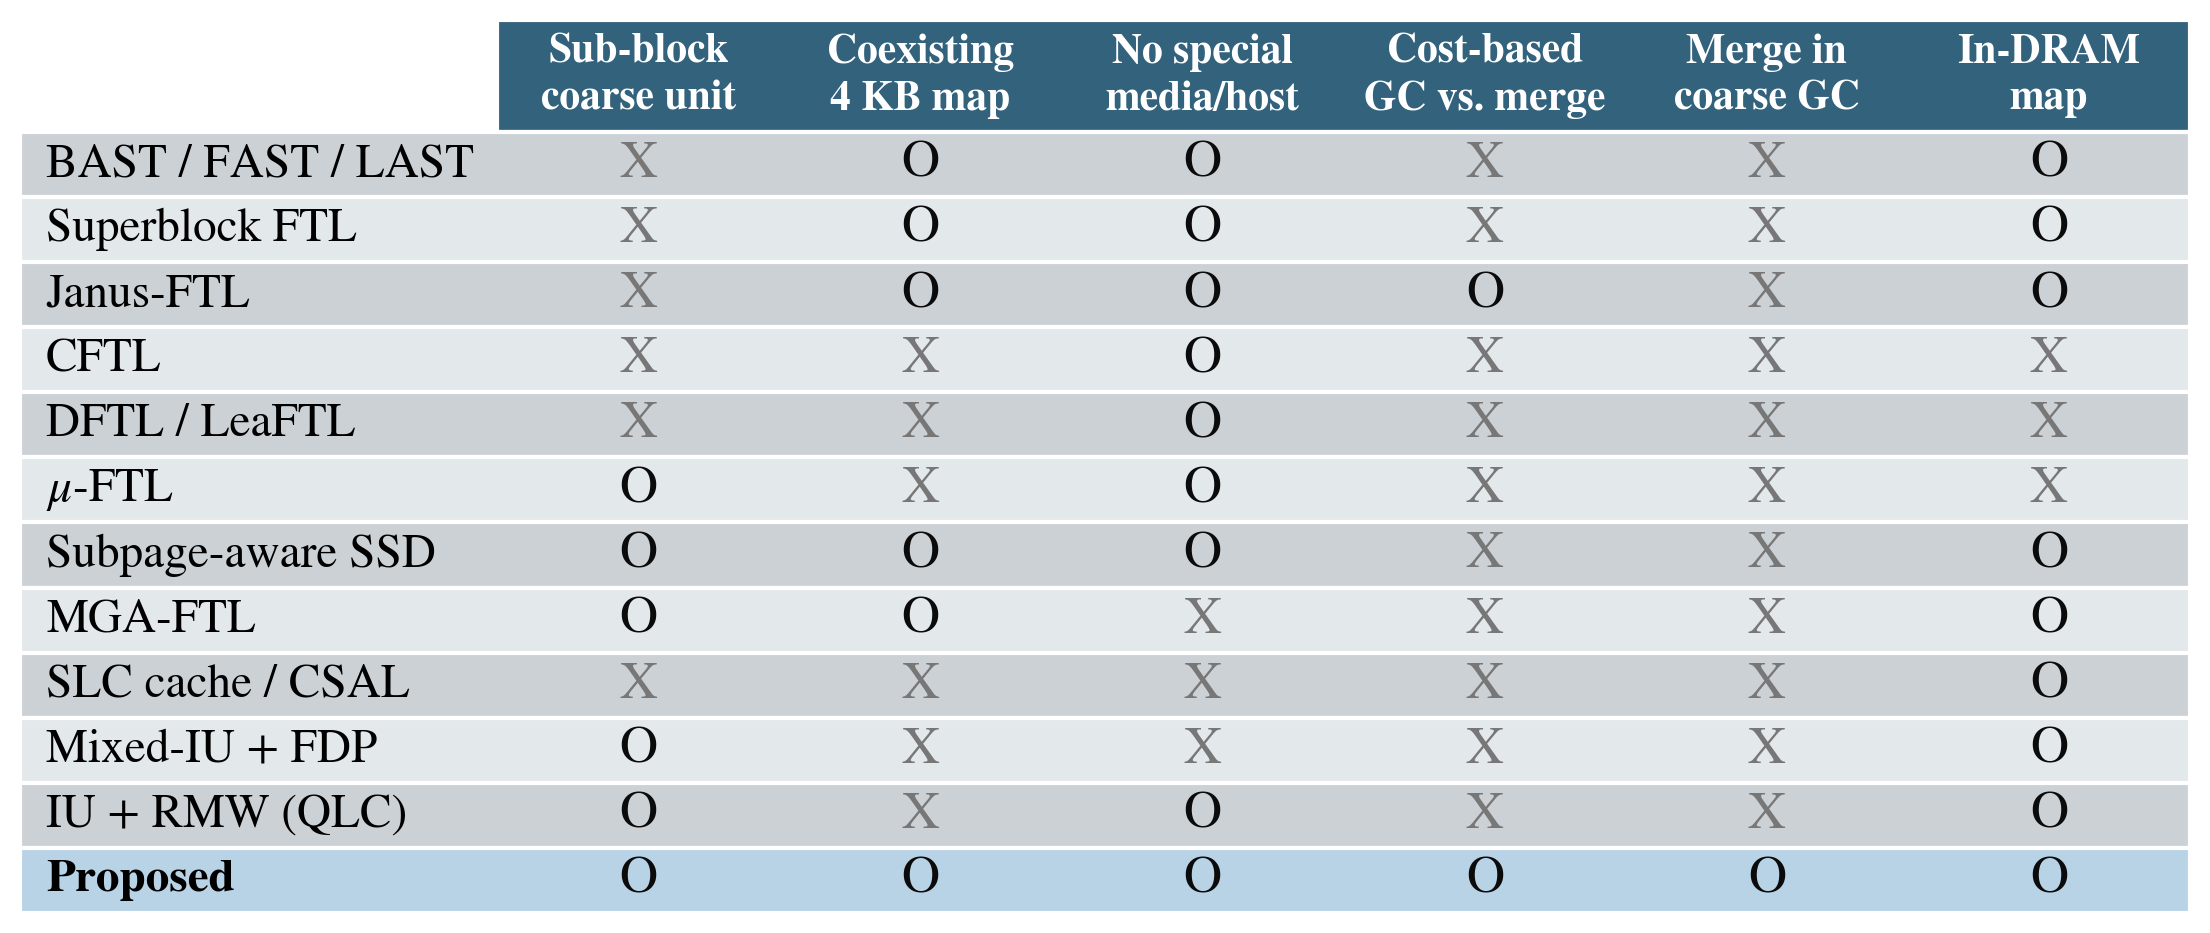
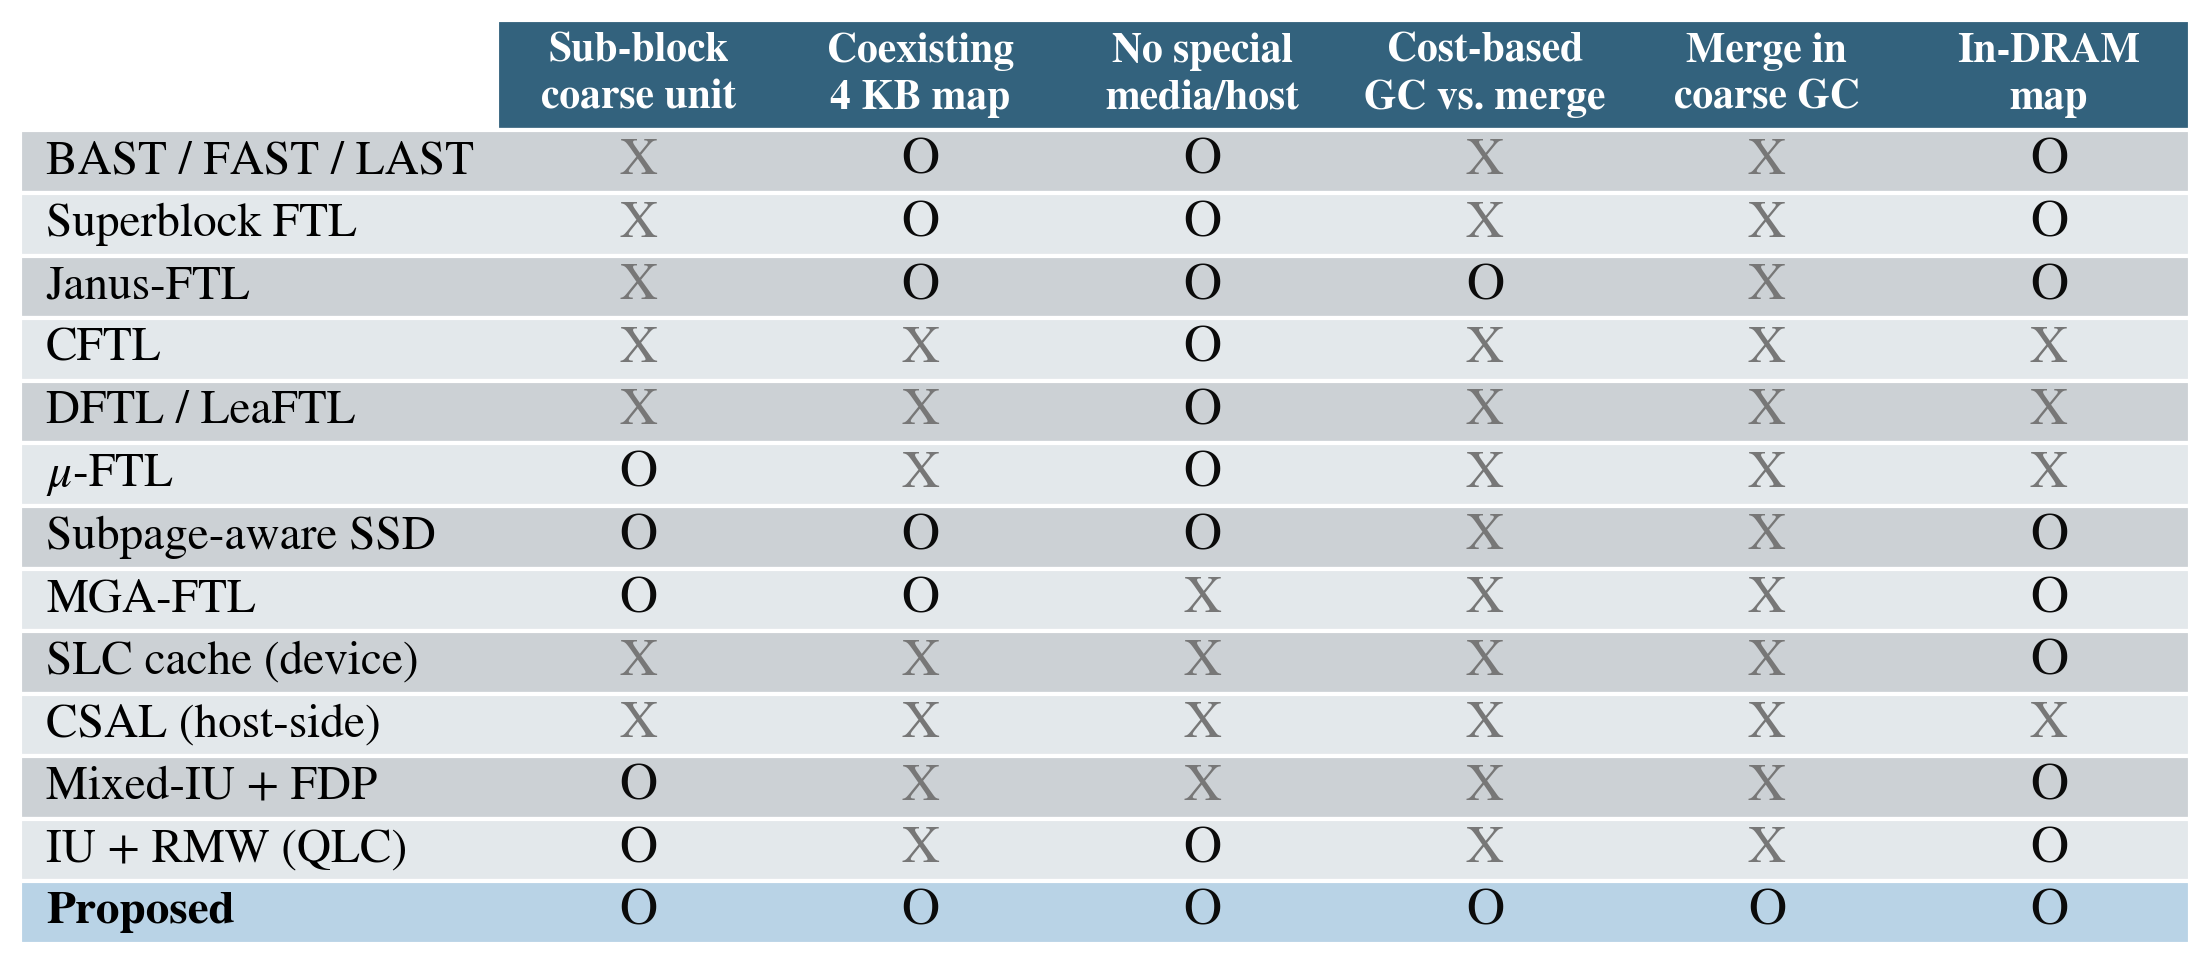
Split CSAL from device SLC caching in the related-work table; record only verified cells

Changed region(s): [[0.0, 0.0311, 0.9991, 0.9636]]

diff --git a/tools/plot.py b/tools/plot.py
@@ -440,7 +440,8 @@ RW = [
     (r"$\mu$-FTL",          dict(sub=1, dual=0, plain=1, cost=0, gcmrg=0, dram=0)),
     ("Subpage-aware SSD",   dict(sub=1, dual=1, plain=1, cost=0, gcmrg=0, dram=1)),
     ("MGA-FTL",             dict(sub=1, dual=1, plain=0, cost=0, gcmrg=0, dram=1)),
-    ("SLC cache / CSAL",    dict(sub=0, dual=0, plain=0, cost=0, gcmrg=0, dram=1)),
+    ("SLC cache (device)",  dict(sub=0, dual=0, plain=0, cost=0, gcmrg=0, dram=1)),
+    ("CSAL (host-side)",    dict(sub=0, dual=0, plain=0, cost=0, gcmrg=0, dram=0)),
     ("Mixed-IU + FDP",      dict(sub=1, dual=0, plain=0, cost=0, gcmrg=0, dram=1)),
     ("IU + RMW (QLC)",      dict(sub=1, dual=0, plain=1, cost=0, gcmrg=0, dram=1)),
     ("Proposed",            dict(sub=1, dual=1, plain=1, cost=1, gcmrg=1, dram=1)),
@@ -449,7 +450,7 @@ COMPACT_KEYS = ["sub", "dual", "cost", "gcmrg", "dram"]
 COMPACT_ROWS = ["FAST", "Janus-FTL", r"$\mu$-FTL", "Proposed"]
 
 
-def _table(rows, keys, stem, label_w=0.22, row_h=0.09, hdr_h=0.155, figsize=(14, 5.8)):
+def _table(rows, keys, stem, label_w=0.22, row_h=0.085, hdr_h=0.15, figsize=(14, 6.0)):
     fig, ax = plt.subplots(figsize=figsize)
     ax.set_xlim(0, 1)
     ax.set_ylim(0, hdr_h + row_h * len(rows))

diff --git a/SPEC.md b/SPEC.md
@@ -347,7 +347,8 @@ Proposed가 전부 만족하는 6개 feature로 분해. 각 행은 최소 하나
 | μ-FTL (EMSOFT'08) | O | X | O | X | X | X | **단일** 가변-granularity 맵(extent 1–128페이지)이라 티어 공존 아님. extent 병합은 논리·물리 연속일 때 기회적으로만(비용 판단 없음), μ-tree 플래시 상주 |
 | Subpage-aware SSD (TC'18, ICS'20) / Minipage-FTL (NAS'18) | O | O | O | X | X | O | 큰 물리 페이지 내 4 K 서브페이지 매핑, 병합 기준은 갱신 빈도(핫니스) 클러스터링 |
 | MGA-FTL (**DATE'17**) | O | O | X | X | X | O | 2-level(page 16 K + subpage 4 K) 매핑으로 DRAM 제어. **page re-programming(NOP) 필요** → MLC/TLC/QLC는 LLH 등 별도 기법. subpage merging 기준은 조각 수·**read count**(읽기 성능)로 쓰기 비용이 아님 |
-| SLC cache (ComboFTL'10, warm-block'18) / CSAL (EuroSys'24) | X | X | X | X | X | O | **매체** 티어링: 두 티어 모두 4 K 매핑이고 coarse 맵 자체가 없음(DRAM 절감 목적 아님). CSAL의 2-level L2P는 4 K granularity를 값싸게 색인하는 계층 구조이며 호스트측 계층 + 별도 SLC 디바이스 필요 |
+| SLC cache, 디바이스 내부 (ComboFTL'10, warm-block'18) | X | X | X | X | X | O | **매체** 티어링: 두 티어 모두 4 K 매핑이고 coarse 맵이 없음(DRAM 절감 목적 아님), SLC 영역 필요 |
+| CSAL (EuroSys'24, 호스트측) | X | X | X | X | X | X | 아티팩트 기준 검증: **4 KB 블록/매핑**, L2P DRAM 상한 **2048 MB**(전체 테이블보다 작은 캐시), OP 18%, 빠른 드라이브를 FIFO 로그 버퍼로 쓰고 compaction 때 유효 로그를 QLC에 큰 순차 쓰기로 이동, L2P는 한 시점에 한 위치만 지시. **미검증**: band/chunk 크기, 2-level L2P의 구조, hot/cold 분리 granularity (EuroSys 원문 접근 불가) |
 | Mixed-IU + FDP (Silicon Motion OCP'24; US 10409500, US 10222984) | O | X | X | X | X | O | 4 K IU 영역과 16 K IU 영역을 **정적·배타적**으로 분리(한 LBA는 한쪽만) → 동시 공존 아님. 호스트가 배치 결정, granularity 간 이동 없음 |
 | IU + RMW (현행 QLC) | O | X | O | X | X | O | coarse 매핑만, sub-IU 쓰기는 RMW |
 | **Proposed** | **O** | **O** | **O** | **O** | **O** | **O** | |
